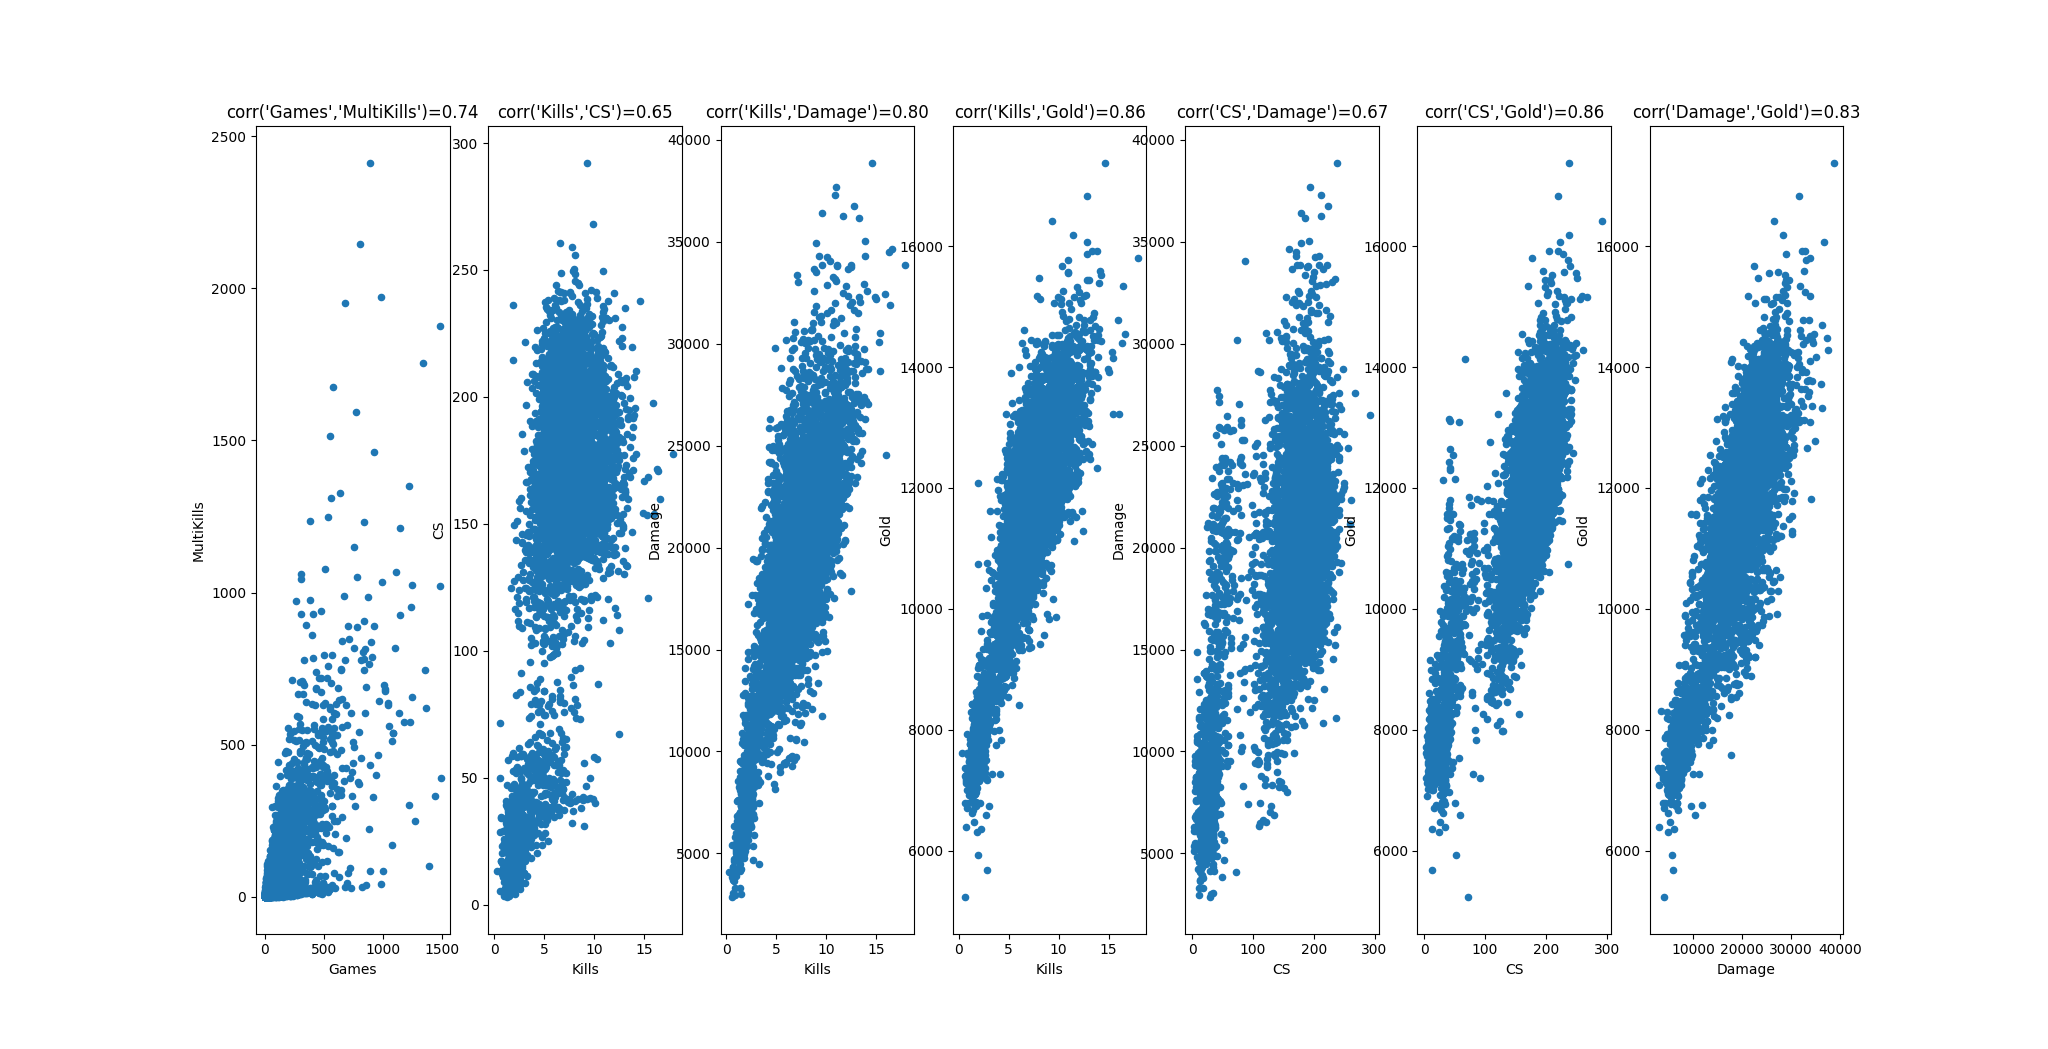
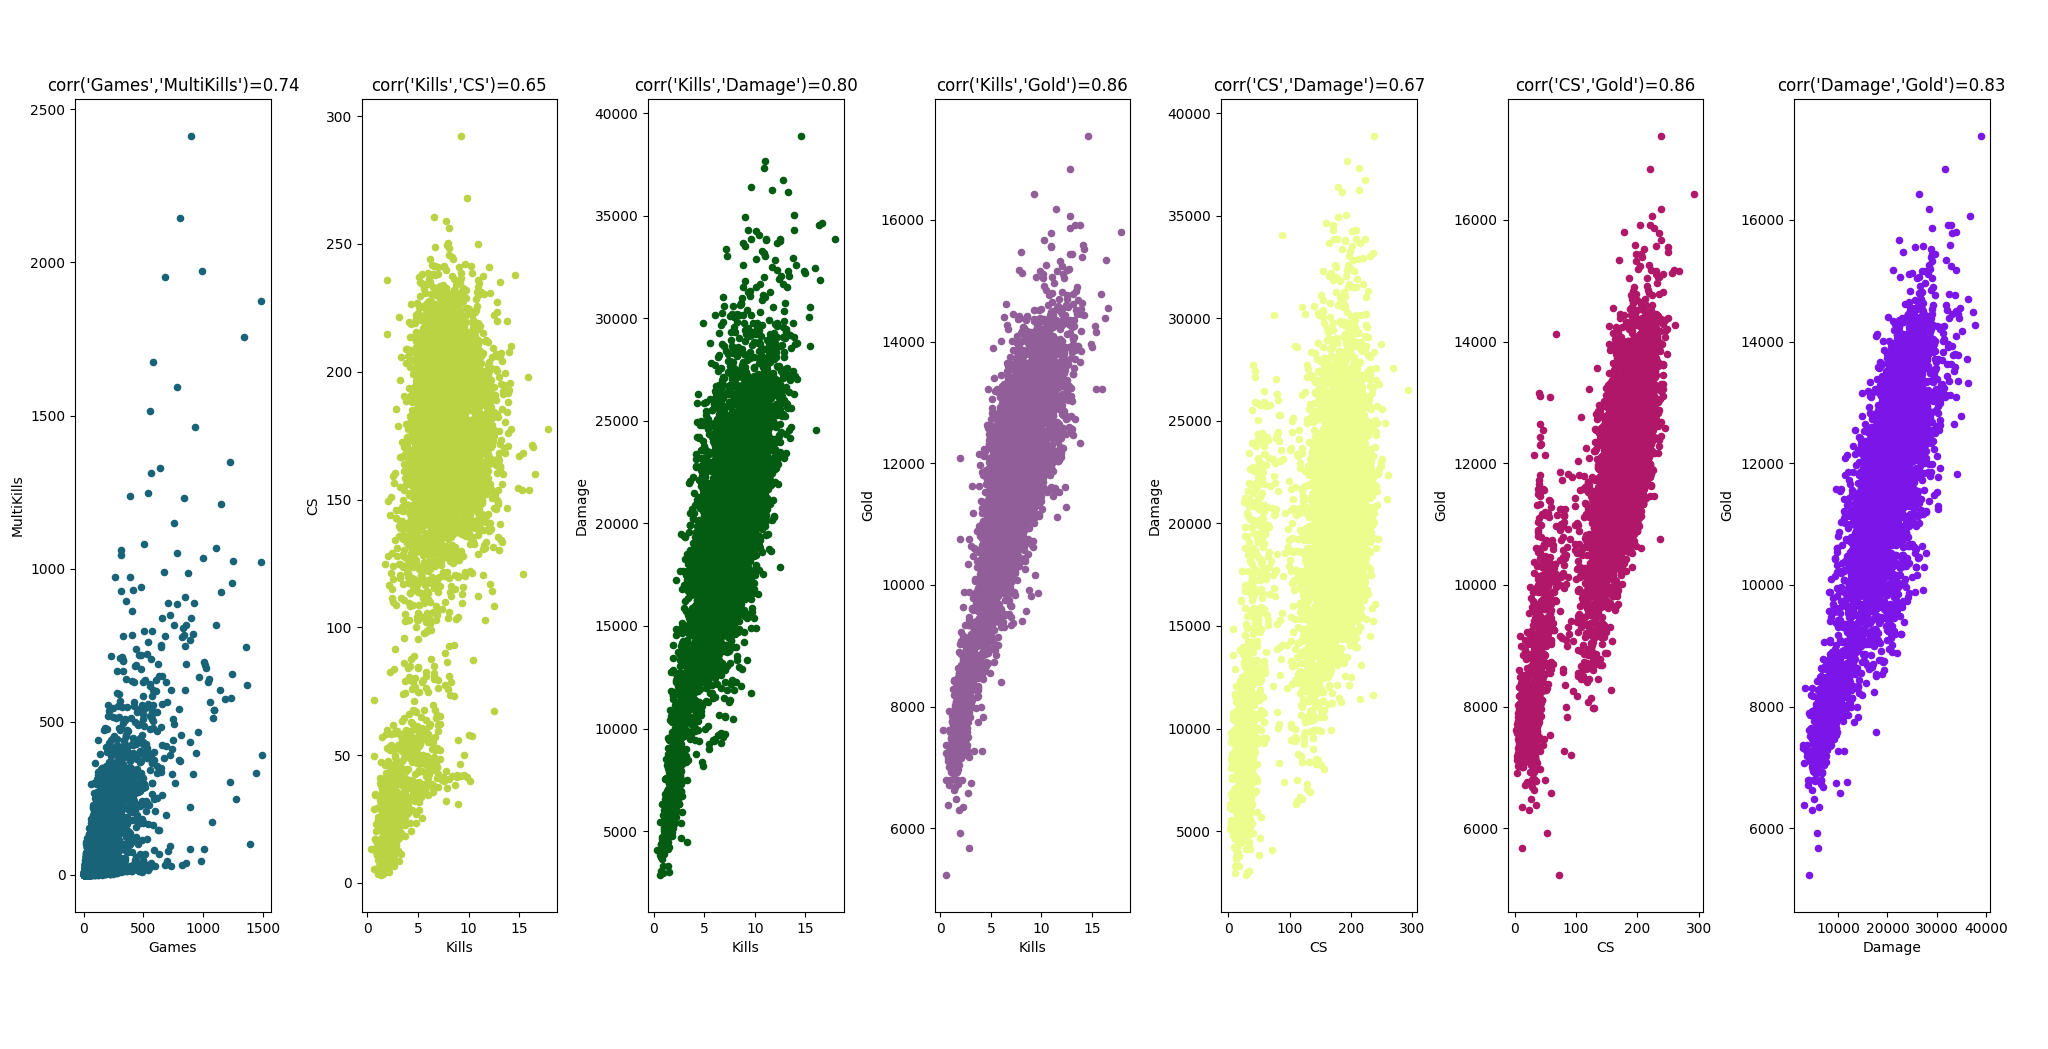
or color changes

diff --git a/PlotUtility.py b/PlotUtility.py
@@ -37,10 +37,15 @@ def plot_high_correlated_scatters(df):
     correlations, tuples = get_highly_correlated_cols(df)
     corr_len = len(correlations)
     fig, axes = plt.subplots(1, corr_len)
+    fig.tight_layout(pad = 3) #changed
     for c in range(corr_len):
         i, j = tuples[c]
         x = df.columns[i]
         y = df.columns[j]
         title = ("corr('%s','%s')=%4.2f") %(x, y, correlations[c])
-        df.plot(kind="scatter",x=x,y=y,ax=axes[c],title=title)
+        r = random.random()#changed
+        b = random.random()#changed
+        g = random.random()#changed
+        color = (r, g, b)#changed
+        df.plot(kind="scatter",x=x,y=y,ax=axes[c],title=title,color=color)#changed
     plt.show()
